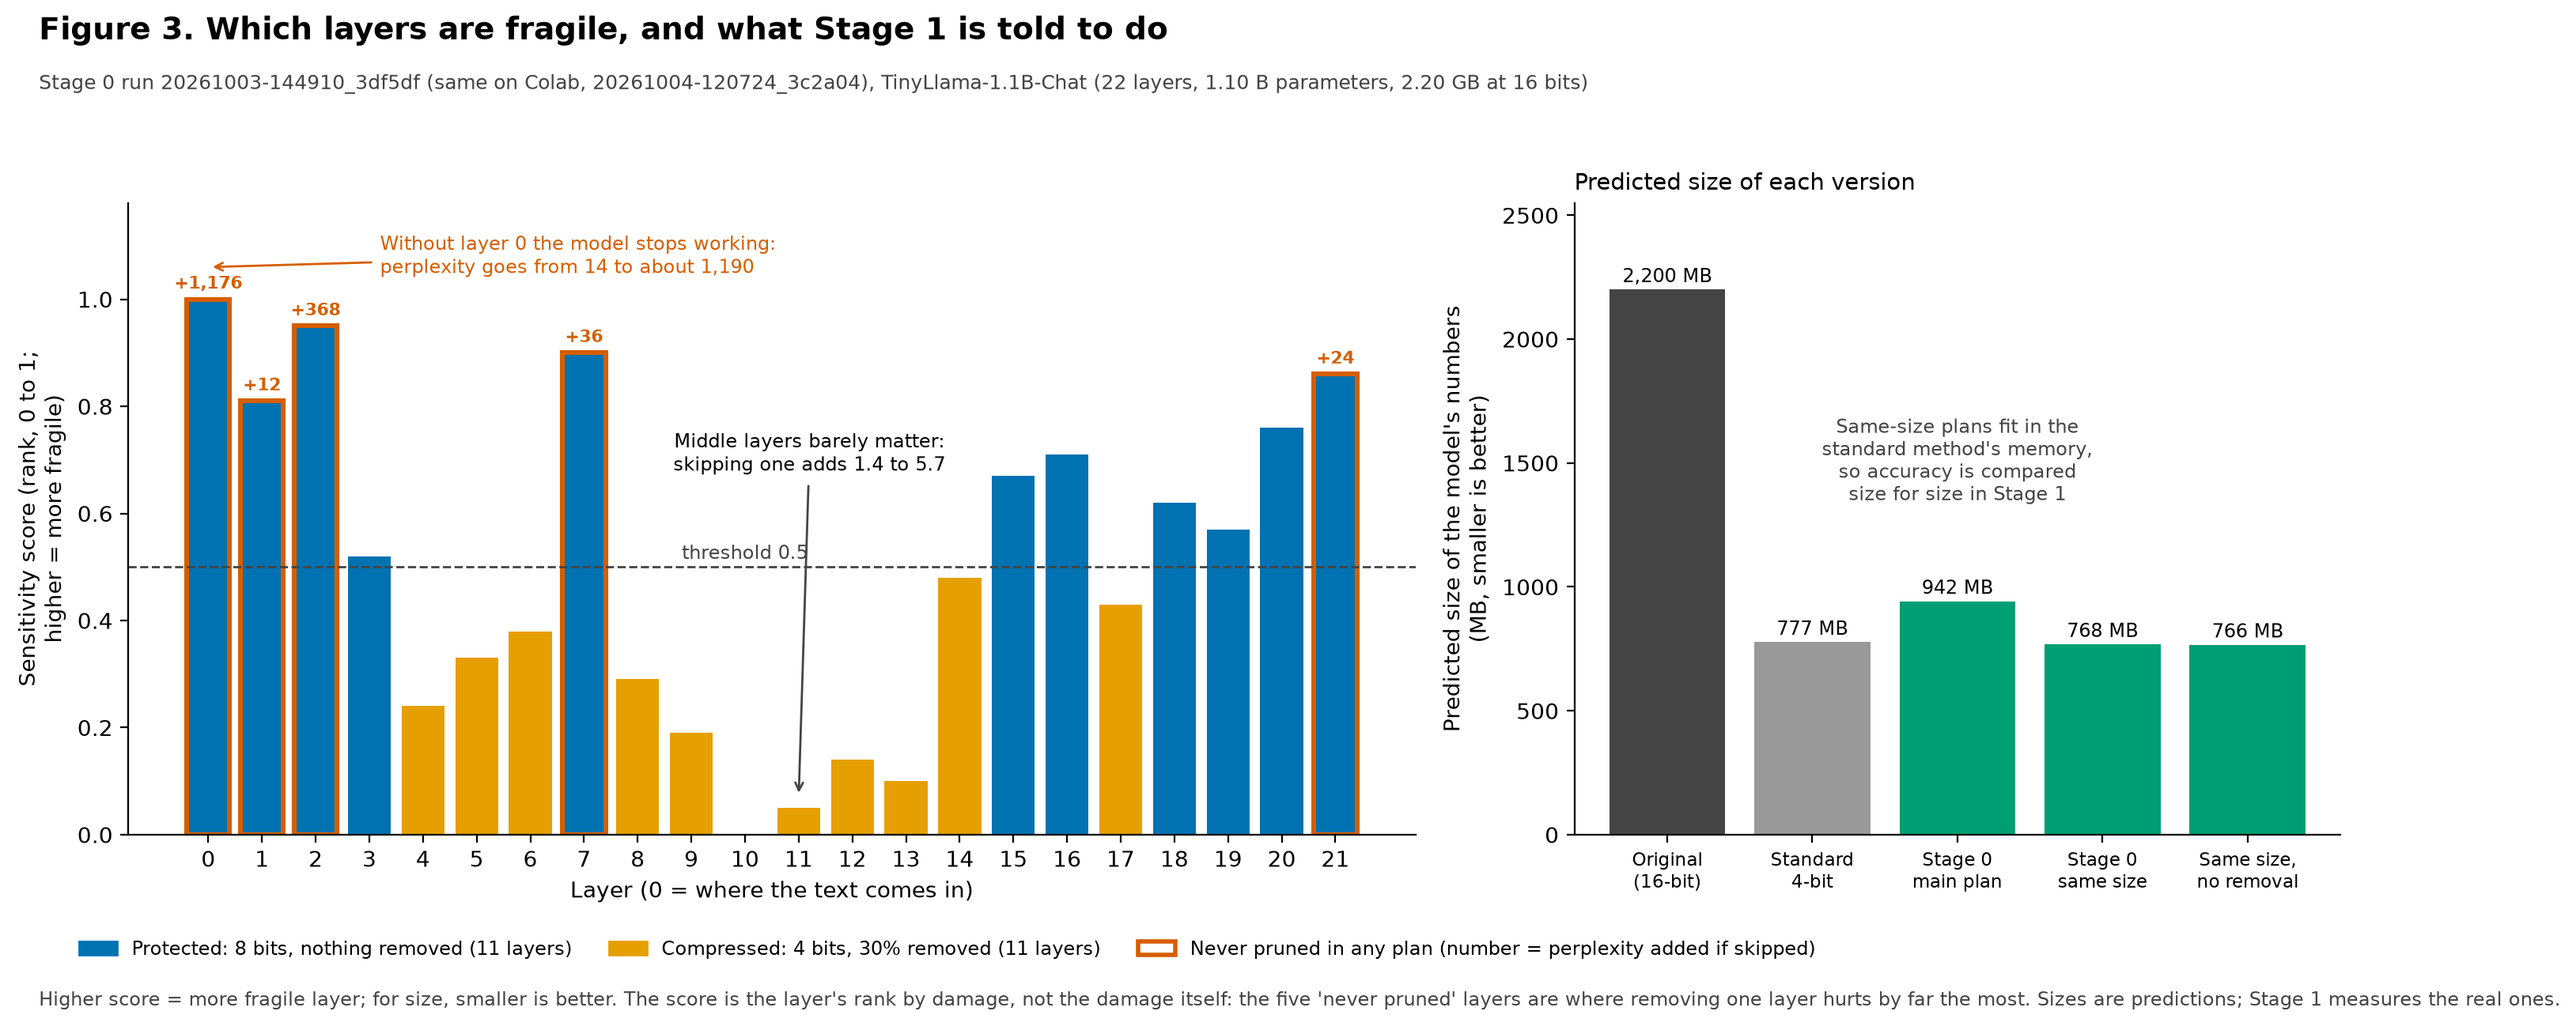
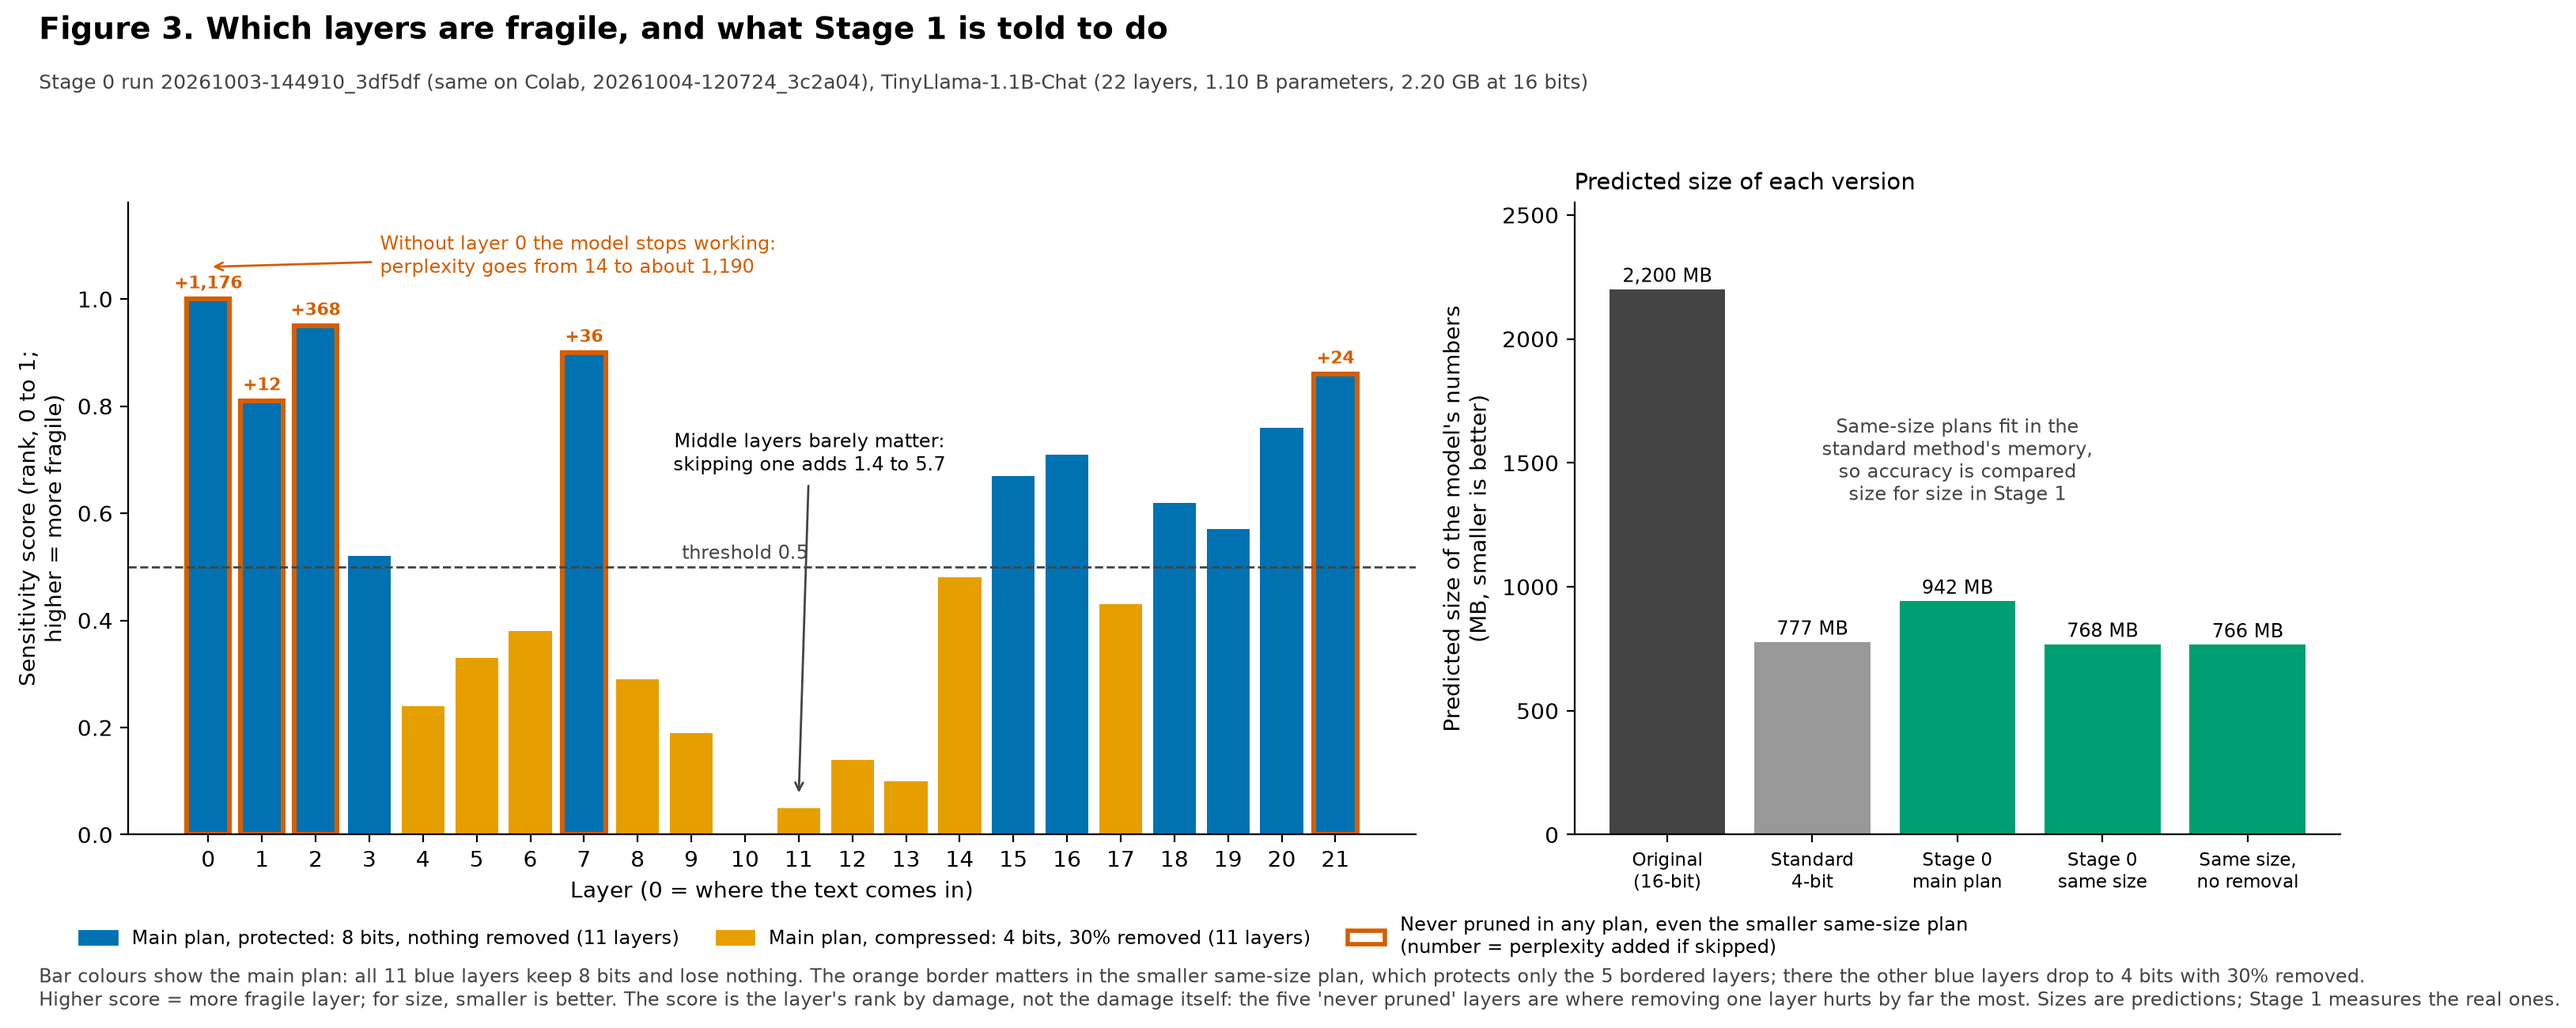
Figure 3: say the colours show the main plan and the border is for the same-size plan
Claude-Session: https://claude.ai/code/session_01ET9NtzJJFEQwptP65DCiB6

diff --git a/docs/figures/make_figures.py b/docs/figures/make_figures.py
@@ -150,9 +150,9 @@ def fig3_weight_plan():
     ax.annotate("Middle layers barely matter:\nskipping one adds 1.4 to 5.7",
                 (11, 0.07), (11.2, 0.68), fontsize=8.8, ha="center",
                 arrowprops=dict(arrowstyle="->", color=NOTE))
-    fig.legend(handles=[Patch(color=PROTECT, label="Protected: 8 bits, nothing removed (11 layers)"),
-                       Patch(color=COMPRESS, label="Compressed: 4 bits, 30% removed (11 layers)"),
-                       Patch(fc="white", ec=GUARD, lw=2, label="Never pruned in any plan (number = perplexity added if skipped)")],
+    fig.legend(handles=[Patch(color=PROTECT, label="Main plan, protected: 8 bits, nothing removed (11 layers)"),
+                       Patch(color=COMPRESS, label="Main plan, compressed: 4 bits, 30% removed (11 layers)"),
+                       Patch(fc="white", ec=GUARD, lw=2, label="Never pruned in any plan, even the smaller same-size plan\n(number = perplexity added if skipped)")],
               loc="lower left", fontsize=8.5, frameon=False, bbox_to_anchor=(0.03, 0.0), ncol=3)
 
     names = ["Original\n(16-bit)", "Standard\n4-bit", "Stage 0\nmain plan", "Stage 0\nsame size", "Same size,\nno removal"]
@@ -166,7 +166,9 @@ def fig3_weight_plan():
     ax2.set_title("Predicted size of each version", fontsize=10.5, loc="left")
     ax2.text(2, 1350, "Same-size plans fit in the\nstandard method's memory,\nso accuracy is compared\nsize for size in Stage 1",
              ha="center", fontsize=8.5, color=NOTE)
-    fig.text(0.02, -0.03, "Higher score = more fragile layer; for size, smaller is better. The score is the layer's rank by damage, not the damage itself: the five 'never pruned' layers "
+    fig.text(0.02, -0.03, "Bar colours show the main plan: all 11 blue layers keep 8 bits and lose nothing. The orange border matters in the smaller "
+             "same-size plan, which protects only the 5 bordered layers; there the other blue layers drop to 4 bits with 30% removed.\n"
+             "Higher score = more fragile layer; for size, smaller is better. The score is the layer's rank by damage, not the damage itself: the five 'never pruned' layers "
              "are where removing one layer hurts by far the most. Sizes are predictions; Stage 1 measures the real ones.",
              fontsize=8.8, color=NOTE)
     fig.tight_layout(rect=(0, 0.05, 1, 0.9))
